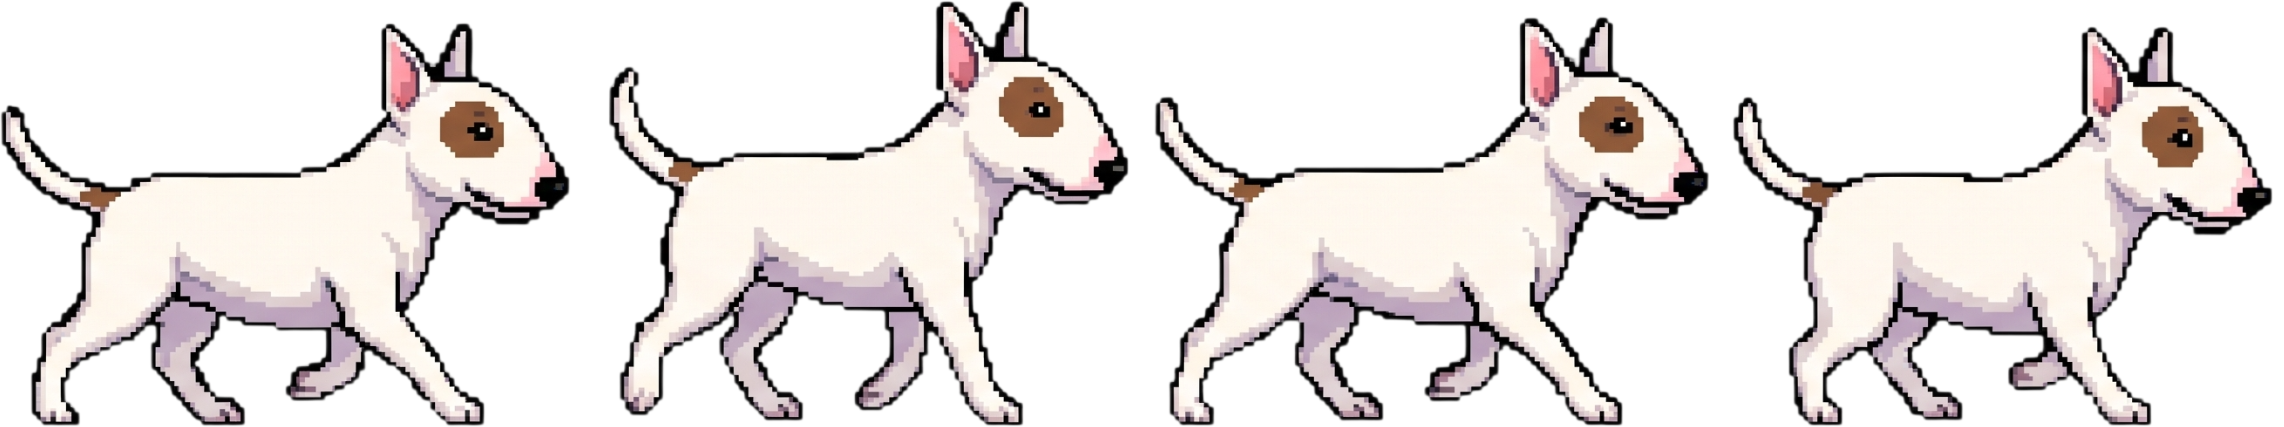
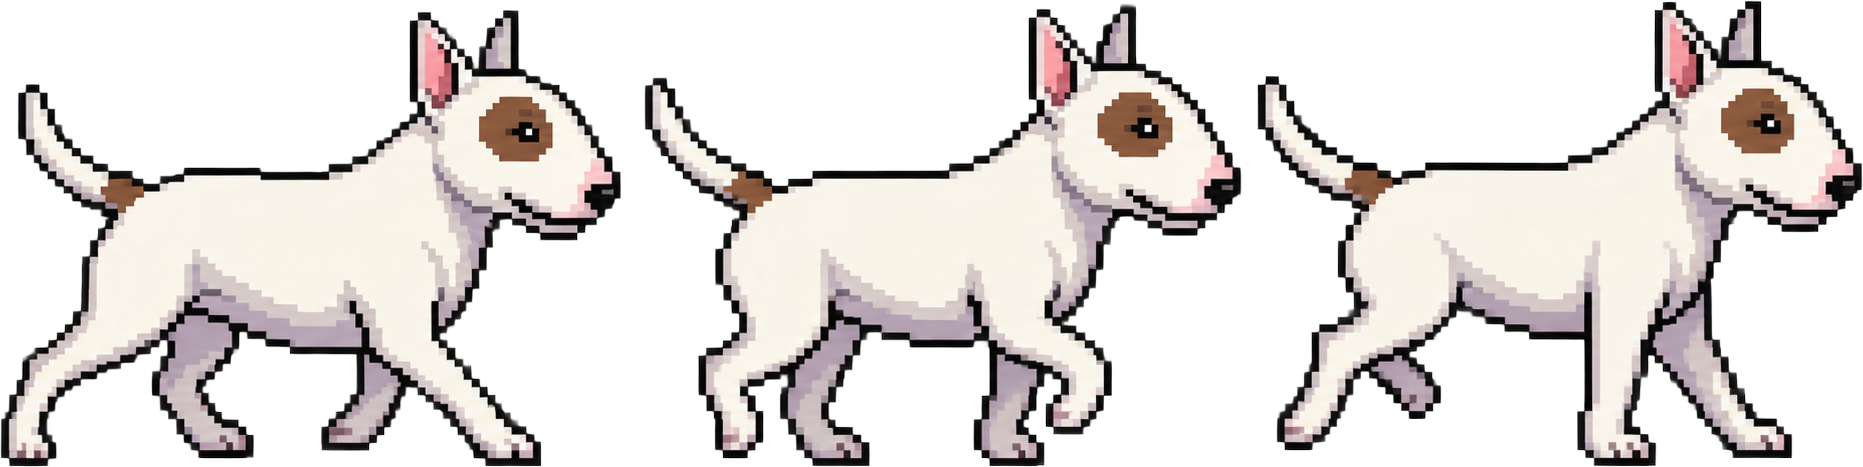
Use the new 3-frame walk cycle for the dog
Claude-Session: https://claude.ai/code/session_01ATiiwuFLAFzyZcAkuDrBud

diff --git a/css/components/dog.css b/css/components/dog.css
@@ -2,12 +2,12 @@
 .dogtile{cursor:pointer}
 .dog{position:fixed;left:0;bottom:4px;z-index:9;width:200px;visibility:hidden;pointer-events:none;will-change:transform}
 .dog-in{position:relative;transform-origin:50% 100%}
-.dog-img{display:block;width:100%;aspect-ratio:571/427;background:url(../../img/dog-run.png) 0 0/400% 100% no-repeat;pointer-events:auto;cursor:pointer;image-rendering:pixelated;filter:drop-shadow(0 8px 8px rgba(20,48,47,.2));transform-origin:50% 100%;user-select:none;-webkit-user-drag:none}
+.dog-img{display:block;width:100%;aspect-ratio:621/467;background:url(../../img/dog-run.png) 0 0/300% 100% no-repeat;pointer-events:auto;cursor:pointer;image-rendering:pixelated;filter:drop-shadow(0 8px 8px rgba(20,48,47,.2));transform-origin:50% 100%;user-select:none;-webkit-user-drag:none}
 .dog-say{position:absolute;bottom:92%;left:58%;white-space:nowrap;padding:9px 14px;border-radius:16px 16px 16px 4px;background:#fff;color:var(--ink);font:600 15px/1.2 var(--display);letter-spacing:-.01em;
   box-shadow:0 12px 24px -12px rgba(20,48,47,.5);border:1px solid var(--line);opacity:0;transform:translateY(8px) scale(.85);transform-origin:0 100%;transition:opacity .2s,transform .35s cubic-bezier(.3,1.6,.5,1)}
 .dog.talk .dog-say{opacity:1;transform:none}
-.dog.running .dog-img{animation:runcycle .5s steps(4) infinite}
-@keyframes runcycle{to{background-position:133.3333% 0}}
+.dog.running .dog-img{animation:runcycle .45s steps(3) infinite}
+@keyframes runcycle{to{background-position:150% 0}}
 .dog.barking .dog-img{animation:bark .32s ease-in-out infinite}
 @keyframes bark{0%,100%{transform:none}40%{transform:scale(1.06,.95) rotate(-3deg)}}
 .dog.air .dog-img{transform:rotate(-6deg)}

diff --git a/README.md b/README.md
@@ -20,7 +20,7 @@ Each file has a single responsibility.
 index.html              markup only (sections, nav, canvas, dog)
 img/
   icons.svg             SVG sprite (<symbol>s referenced by <use>)
-  dog-run.png           4-frame walk-cycle sprite sheet
+  dog-run.png           3-frame walk-cycle sprite sheet
   dog-sit.png           dog sitting on the "Dog owner" tile
 css/
   base/                 tokens (colors, fonts), reset, typography, reveal/reduced-motion
